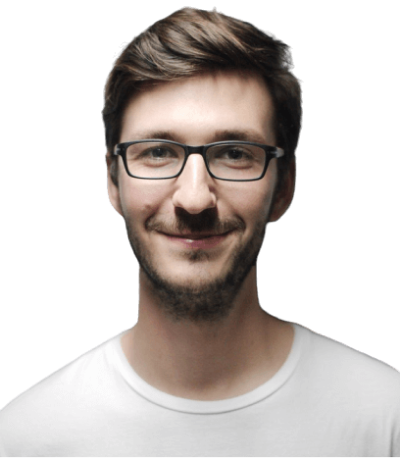
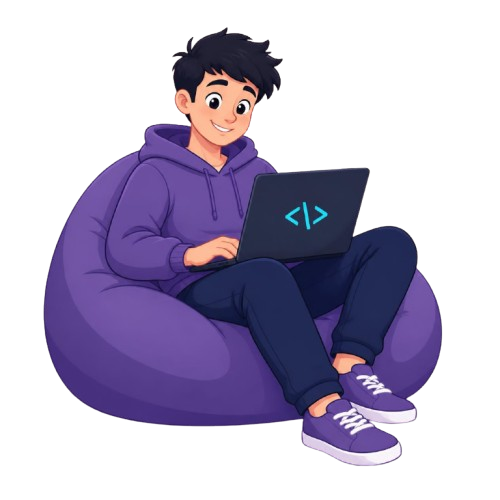
done 1

diff --git a/index.html b/index.html
@@ -69,7 +69,7 @@
 
                 <div class="about__container bd-grid">
                     <div class="about__img">
-                        <img src="assets/img/about.jpg" alt="">
+                        <img src="assets/img/about.png" alt="">
                     </div>
                     
                     <div>
@@ -462,30 +462,51 @@
                 <h2 class="section-title">Contact</h2>
 
                 <div class="contact__container bd-grid">
-                    <form action="" class="contact__form">
+                    <!-- <form action="" class="contact__form">
                         <input type="text" placeholder="Name" class="contact__input">
                         <input type="mail" placeholder="Email" class="contact__input">
                         <textarea name="" id="" cols="0" rows="10" class="contact__input"></textarea>
                         <input type="button" value="Enviar" class="contact__button button">
+                    </form> -->
+                    <form id="contact-form" class="contact__form">
+                        <input type="text" name="name" placeholder="Name" class="contact__input" required>
+                        <input type="email" name="email" placeholder="Email" class="contact__input" required>
+                        <textarea name="message" placeholder="Message" class="contact__input" rows="10" required></textarea>
+                        <input type="submit" value="Send Message" class="contact__button button">
                     </form>
+                    <p class="contact__message" id="contact-message"></p>
                 </div>
             </section>
         </main>
 
         <!--===== FOOTER =====-->
         <footer class="footer">
-            <p class="footer__title">Marlon</p>
-            <div class="footer__social">
+            <p class="footer__title">Alfan</p>
+            <!-- <div class="footer__social">
                 <a href="#" class="footer__icon"><i class='bx bxl-facebook' ></i></a>
                 <a href="#" class="footer__icon"><i class='bx bxl-instagram' ></i></a>
                 <a href="#" class="footer__icon"><i class='bx bxl-twitter' ></i></a>
+            </div> -->
+            <div class="footer__social">
+                <a href="mailto:muhamadriskonalfani@gmail.com" class="footer__icon">
+                    <i class='bx bx-envelope'></i>
+                </a>
+                <a href="https://github.com/muhamadriskonalfani" target="_blank" rel="noopener noreferrer" class="footer__icon">
+                    <i class='bx bxl-github'></i>
+                </a>
+                <a href="#" target="_blank" rel="noopener noreferrer" class="footer__icon">
+                    <i class='bx bxl-linkedin'></i>
+                </a>
             </div>
-            <p class="footer__copy">&#169; Bedimcode. All rigths reserved</p>
+            <p class="footer__copy">&#169; 2026 Alfan. All rigths reserved</p>
         </footer>
 
 
         <!--===== SCROLL REVEAL =====-->
         <script src="https://unpkg.com/scrollreveal"></script>
+
+        <!--===== EMAIL JS =====-->
+        <script type="text/javascript" src="https://cdn.jsdelivr.net/npm/@emailjs/browser@4/dist/email.min.js"></script>
 
         <!--===== MAIN JS =====-->
         <script src="assets/js/main.js"></script>

diff --git a/assets/js/main.js b/assets/js/main.js
@@ -147,3 +147,72 @@ document.addEventListener('keydown', (event) => {
     }
 
 });
+
+/*===== EMAILJS =====*/
+
+emailjs.init({
+    publicKey: 'rFocP-EGWokTypRn4'
+});
+
+const contactForm = document.getElementById('contact-form');
+const contactMessage = document.getElementById('contact-message');
+
+if (contactForm) {
+
+    contactForm.addEventListener('submit', function (event) {
+
+        event.preventDefault();
+
+        const submitButton = contactForm.querySelector(
+            'input[type="submit"]'
+        );
+
+        submitButton.disabled = true;
+        submitButton.value = 'Sending...';
+
+        contactMessage.textContent = '';
+        contactMessage.className = 'contact__message';
+
+        emailjs.sendForm(
+            'service_1yi0cpd',
+            'template_n1divad',
+            contactForm
+        )
+        .then(() => {
+
+            contactMessage.textContent =
+                'Message sent successfully!';
+
+            contactMessage.classList.add(
+                'contact__message',
+                'success',
+                'show'
+            );
+
+            contactForm.reset();
+
+            submitButton.disabled = false;
+            submitButton.value = 'Send Message';
+
+        })
+        .catch((error) => {
+
+            console.error('EmailJS Error:', error);
+
+            contactMessage.textContent =
+                'Failed to send message. Please try again.';
+
+            contactMessage.classList.add(
+                'contact__message',
+                'error',
+                'show'
+            );
+
+            submitButton.disabled = false;
+            submitButton.value = 'Send Message';
+
+        });
+
+    });
+
+}

diff --git a/assets/css/styles.css b/assets/css/styles.css
@@ -305,6 +305,10 @@ img {
 .skills__img {
   border-radius: 0.5rem;
 }
+.skills__more {
+  border: none;
+  cursor: pointer;
+}
 
 /* ===== SKILLS MODAL ===== */
 
@@ -628,6 +632,38 @@ img {
   font-size: var(--normal-font-size);
   cursor: pointer;
   margin-left: auto;
+}
+
+/*===== CONTACT MESSAGE =====*/
+
+.contact__message {
+    margin-top: 1rem;
+    text-align: center;
+    font-size: var(--small-font-size);
+
+    opacity: 0;
+    transform: translateY(-5px);
+
+    transition:
+        opacity .3s ease,
+        transform .3s ease;
+}
+
+.contact__message.show {
+    opacity: 1;
+    transform: translateY(0);
+}
+
+.contact__message.success {
+    color: #198754;
+}
+
+.contact__message.error {
+    color: #dc3545;
+}
+.contact__button:disabled {
+    opacity: .7;
+    cursor: not-allowed;
 }
 
 /* ===== FOOTER =====*/
